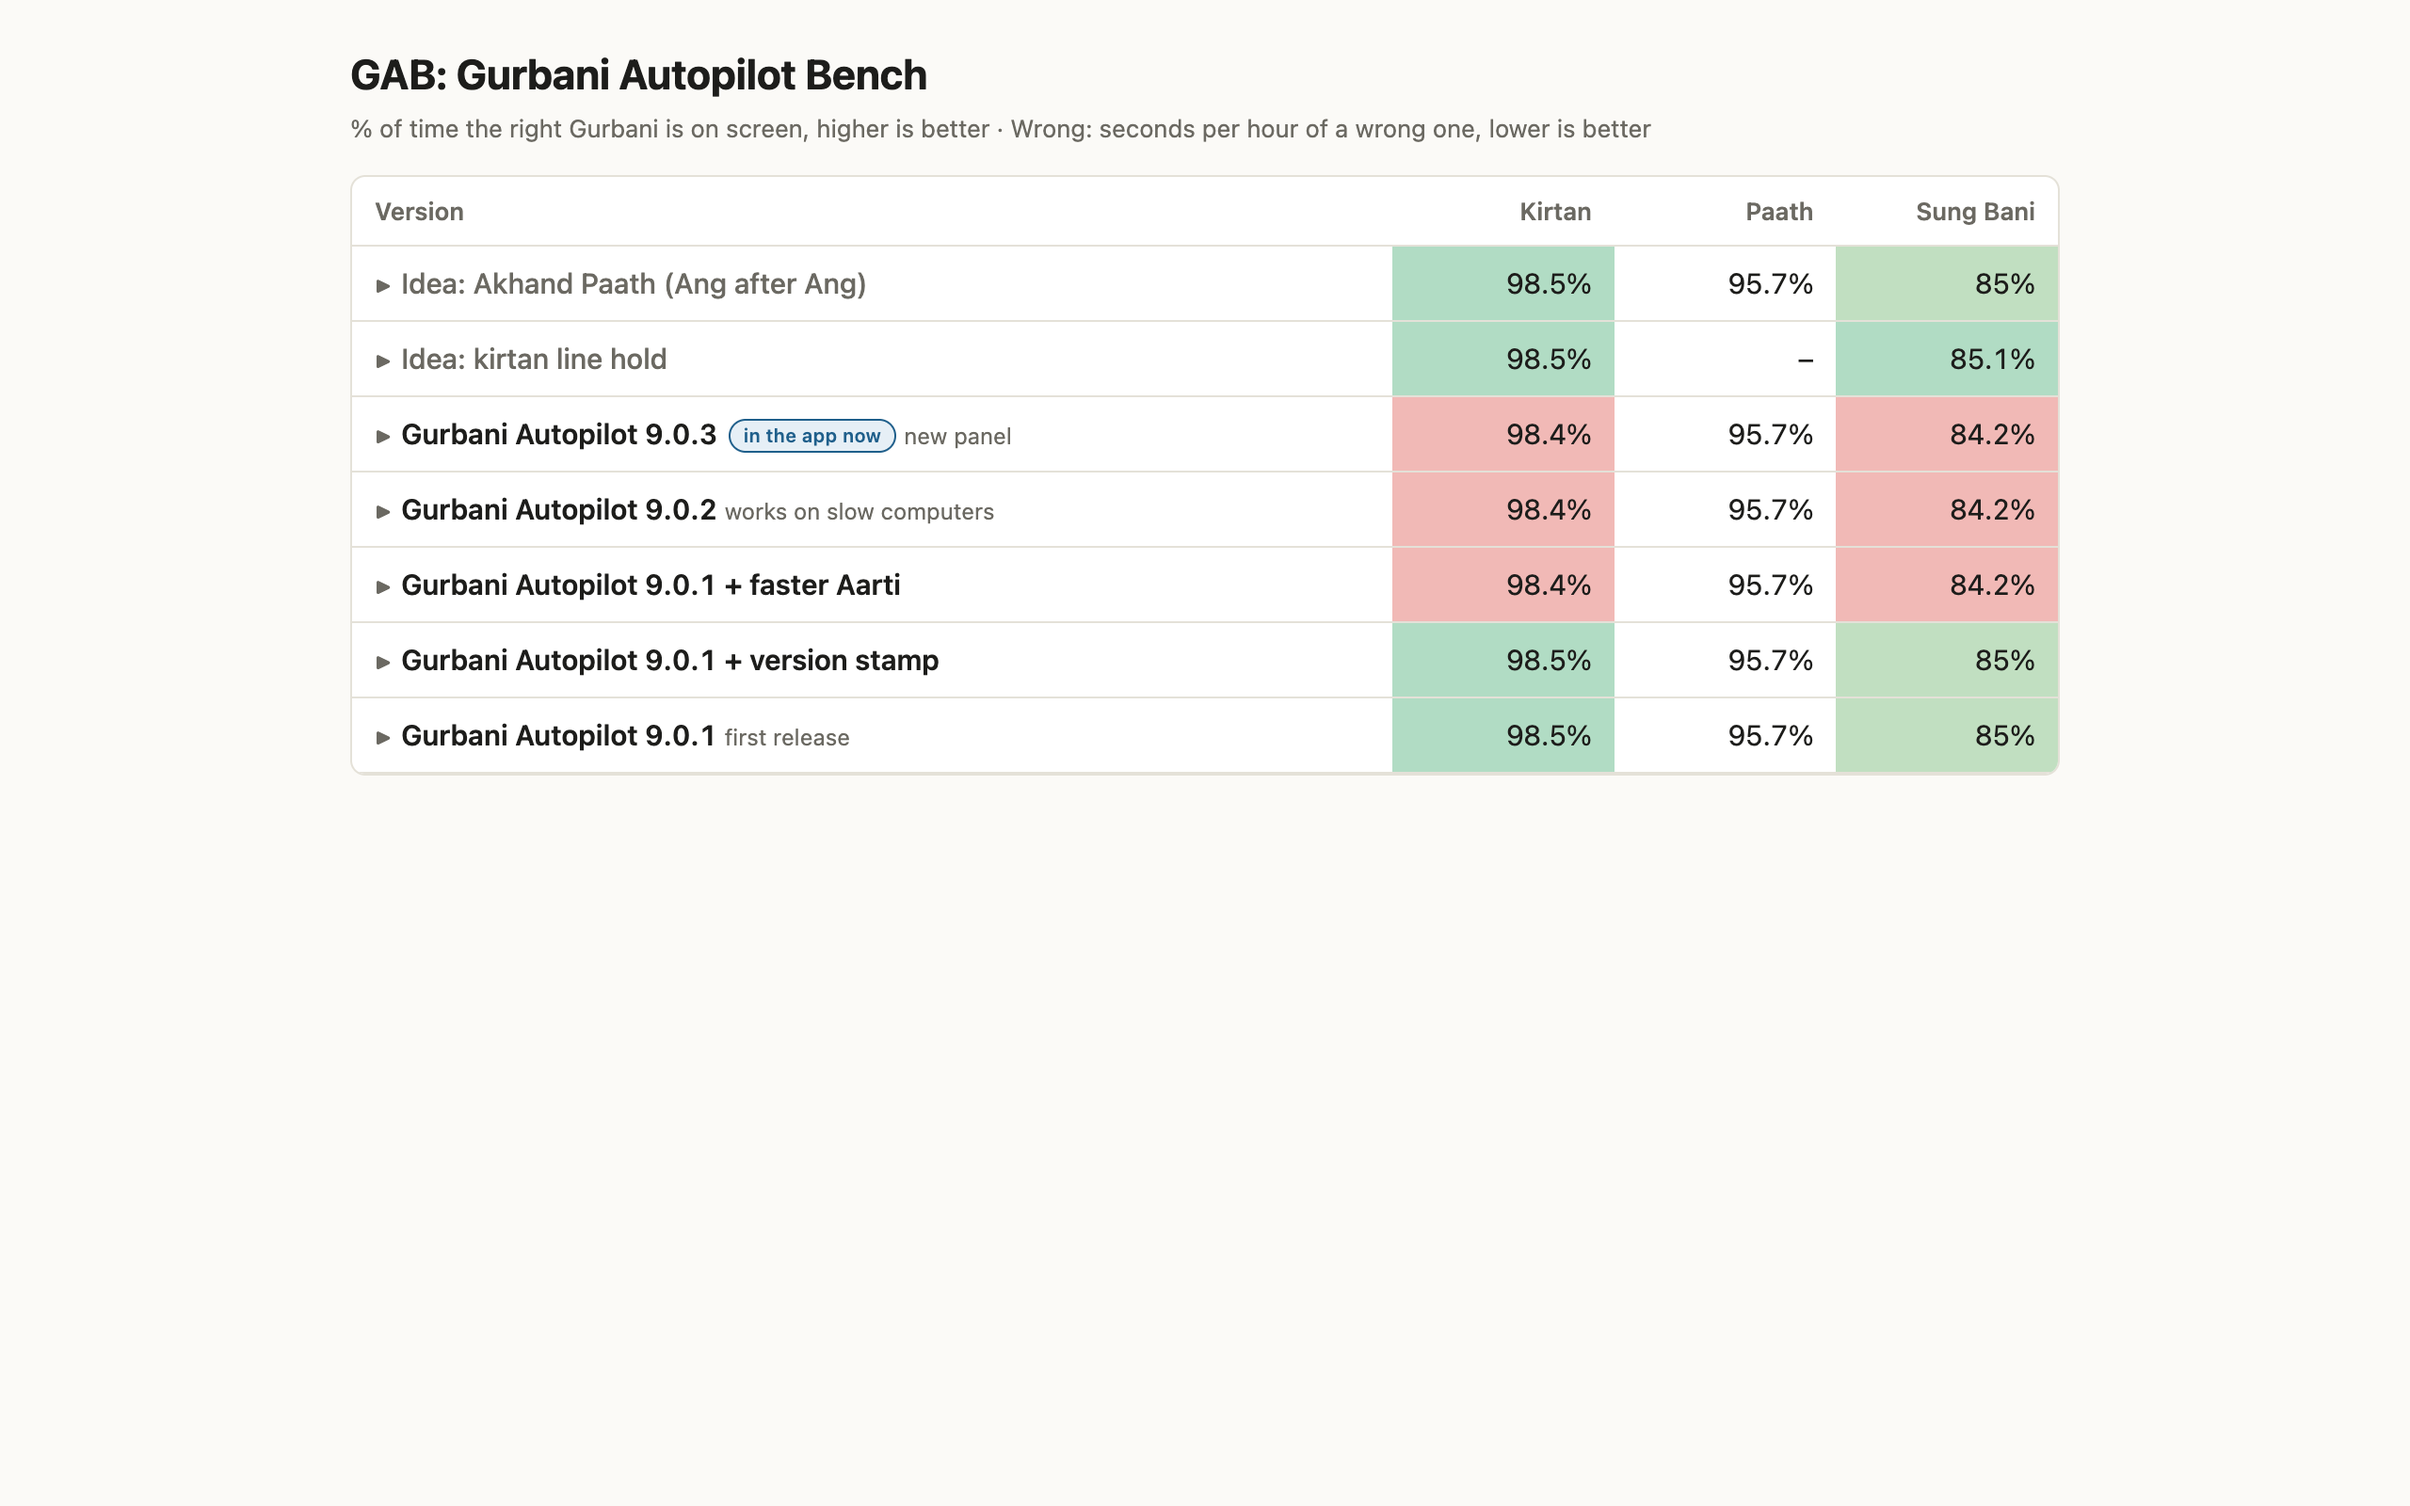
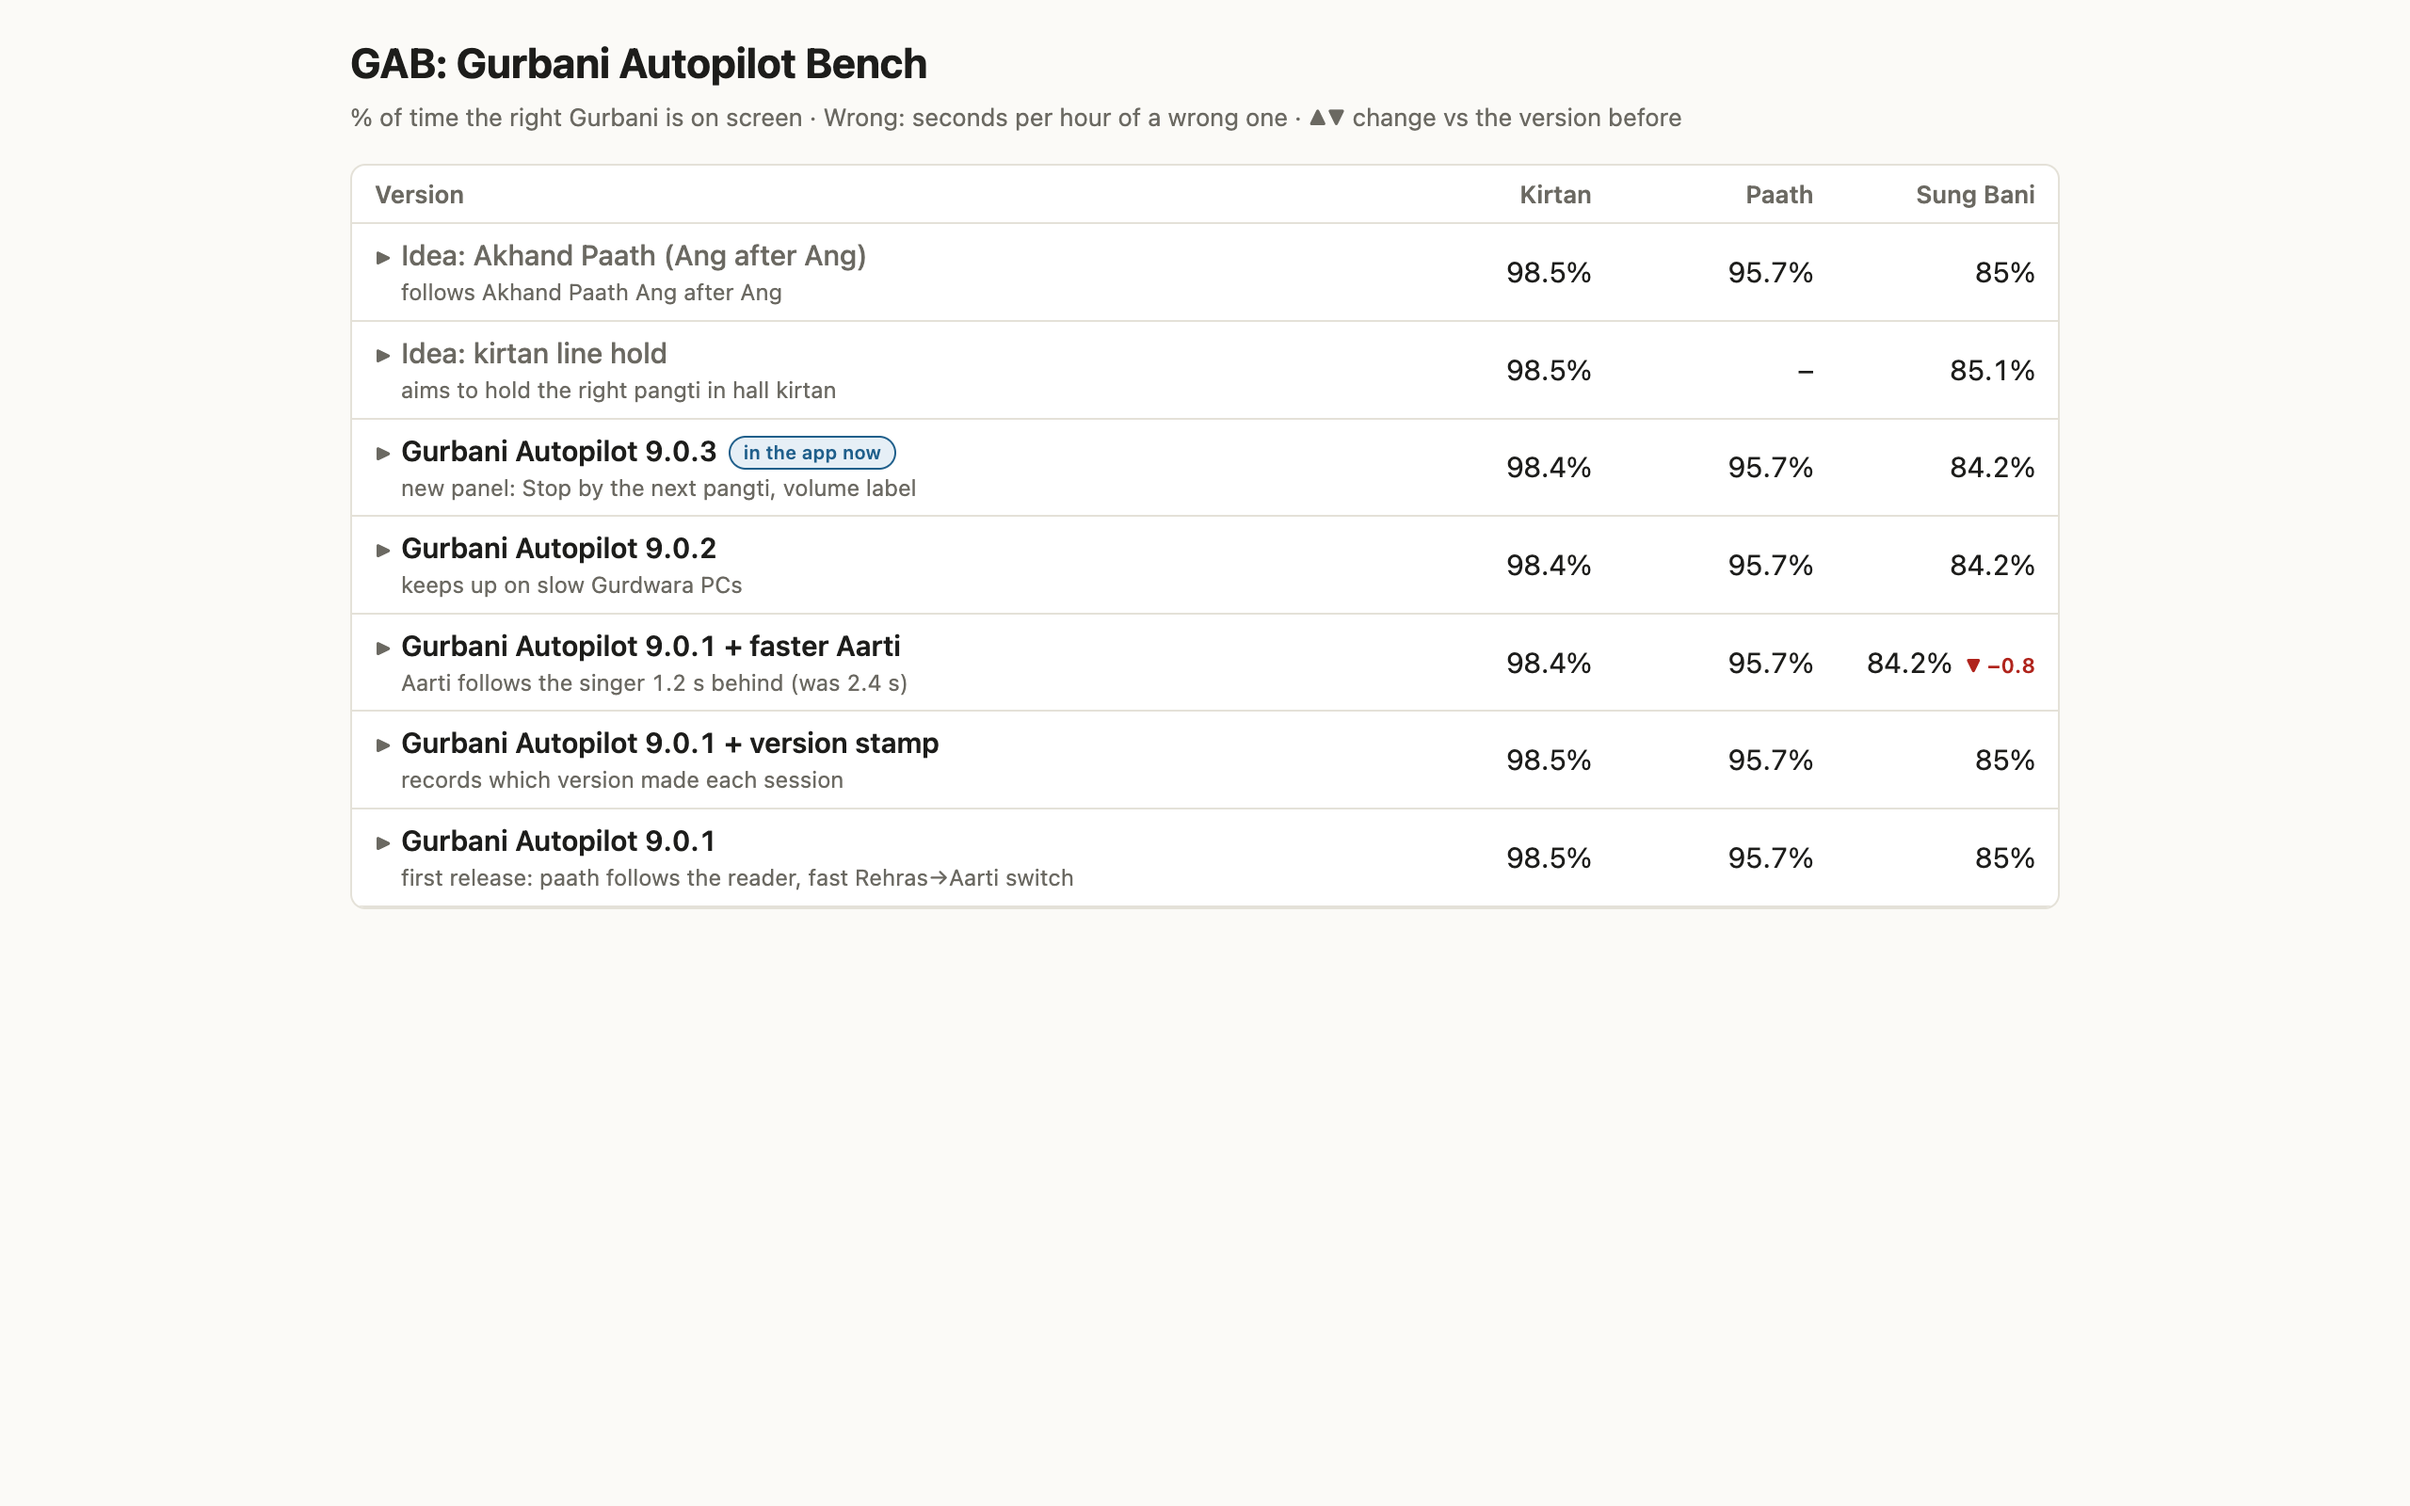
GAB Space: plain cells with change vs the version before (noise floor 0.3 pt / 3 s/h), why line per version

diff --git a/research/level2-dataset/tools/gab-space/index.html b/research/level2-dataset/tools/gab-space/index.html
@@ -8,22 +8,22 @@
 :root {
   --bg: #fbfaf7; --panel: #ffffff; --ink: #1d1d1b; --muted: #6b6962; --line: #e4e1d8; --sub: #f6f4ef;
   --app: #1f5f8b; --app-soft: #e6eff6;
-  --better: #1a9850; --mid: #f2c12e; --worse: #d73027; --tint: 34%;
+  --better-ink: #13703b; --worse-ink: #b0241c;
 }
 @media (prefers-color-scheme: dark) {
   :root:not([data-theme="light"]) { --bg: #151514; --panel: #1e1e1c; --ink: #ecebe6; --muted: #a9a69c; --line: #34332f; --sub: #252522;
-    --app: #9cc8ea; --app-soft: #1f2d38; --better: #3fbf6f; --mid: #e8c547; --worse: #ef5a4c; --tint: 30%; }
+    --app: #9cc8ea; --app-soft: #1f2d38; --better-ink: #7fd89e; --worse-ink: #f48a7e; }
 }
 :root[data-theme="dark"] { --bg: #151514; --panel: #1e1e1c; --ink: #ecebe6; --muted: #a9a69c; --line: #34332f; --sub: #252522;
-  --app: #9cc8ea; --app-soft: #1f2d38; --better: #3fbf6f; --mid: #e8c547; --worse: #ef5a4c; --tint: 30%; }
+  --app: #9cc8ea; --app-soft: #1f2d38; --better-ink: #7fd89e; --worse-ink: #f48a7e; }
 * { box-sizing: border-box; }
 body { margin: 0; background: var(--bg); color: var(--ink); font: 15px/1.4 system-ui, -apple-system, "Segoe UI", sans-serif; }
-.page { max-width: 940px; margin: 0 auto; padding: 24px 16px; }
+.page { max-width: 940px; margin: 0 auto; padding: 18px 16px; }
 h1 { font-size: 22px; margin: 0 0 4px; }
 .sub { color: var(--muted); font-size: 13px; margin: 0 0 16px; }
 .box { background: var(--panel); border: 1px solid var(--line); border-radius: 8px; overflow: hidden; }
 table { border-collapse: collapse; width: 100%; font-variant-numeric: tabular-nums; }
-th, td { padding: 9px 12px; border-bottom: 1px solid var(--line); text-align: right; }
+th, td { padding: 6px 12px; border-bottom: 1px solid var(--line); text-align: right; }
 th:first-child, td:first-child { text-align: left; }
 th { font-size: 13px; font-weight: 600; color: var(--muted); white-space: nowrap; }
 tbody tr:last-child td { border-bottom: 0; }
@@ -33,7 +33,9 @@ tr.ver:focus-visible { outline: 2px solid var(--app); outline-offset: -2px; }
 td.nm { font-weight: 600; }
 td.nm .car { display: inline-block; width: 14px; color: var(--muted); font-size: 11px; transition: transform .15s; }
 tr.open td.nm .car { transform: rotate(90deg); }
-td.nm .what { font-weight: 400; color: var(--muted); font-size: 12px; margin-left: 4px; }
+td.nm .what { display: block; font-weight: 400; color: var(--muted); font-size: 12px; margin: 1px 0 0 14px; }
+.ch { font-size: 11px; font-weight: 600; margin-left: 3px; }
+.ch.up { color: var(--better-ink); } .ch.dn { color: var(--worse-ink); }
 tr.idea td.nm { font-weight: 500; color: var(--muted); }
 tr.old td.nm { font-weight: 400; }
 .pill { display: inline-block; margin-left: 6px; border-radius: 999px; padding: 0 7px; font-size: 10px; font-weight: 600; line-height: 16px; vertical-align: 1px; white-space: nowrap; background: var(--app-soft); color: var(--app); border: 1px solid var(--app); }
@@ -50,7 +52,6 @@ tr.det > td { padding: 0 12px 12px 26px; background: var(--sub); text-align: lef
   .page { padding: 16px 12px; }
   th, td { padding: 8px 6px; }
   td.v { font-size: 14px; }
-  td.nm .what { display: block; margin-left: 14px; }
   td.nm .sysn { display: none; }
   th { white-space: normal; }
   tr.det > td { padding: 0 6px 10px 6px; }
@@ -60,7 +61,7 @@ tr.det > td { padding: 0 12px 12px 26px; background: var(--sub); text-align: lef
 <body>
 <div class="page">
   <h1>GAB: Gurbani Autopilot Bench</h1>
-  <p class="sub">% of time the right Gurbani is on screen, higher is better · Wrong: seconds per hour of a wrong one, lower is better</p>
+  <p class="sub">% of time the right Gurbani is on screen · Wrong: seconds per hour of a wrong one · ▲▼ change vs the version before</p>
   <div class="box"><table id="board"></table></div>
 </div>
 <script>
@@ -83,14 +84,24 @@ const esc = (s) => String(s ?? '').replace(/[&<>"]/g, (c) => ({ '&': '&amp;', '<
 const kindOf = (r) => r.kind || (r.status === 'merged' ? 'release' : 'experiment');
 const rowOf = (rows, key) => (rows || []).find((x) => x.key === key && x.clips) || null;
 const pct = (res, key) => { const r = rowOf(res.rows, key); return r && r.right_shabad_pct != null ? Number(r.right_shabad_pct) : null; };
-const tint = (t) => `background: color-mix(in srgb, ${t >= 0.5 ? `color-mix(in srgb, var(--better) ${Math.round((t - 0.5) * 200)}%, var(--mid))` : `color-mix(in srgb, var(--mid) ${Math.round(t * 200)}%, var(--worse))`} var(--tint), var(--panel))`;
-let RESULTS = [];
+let RESULTS = []; let WHY = {};
+// change vs the version before it (an idea: vs its base); shown only above the noise floor
+const FLOOR = { pct: 0.3, wrong: 3 };
+function chg(v, b, kind) {
+  if (v == null || b == null) return '';
+  const d = Math.round((v - b) * 10) / 10;
+  if (Math.abs(d) <= FLOOR[kind]) return '';
+  const better = kind === 'pct' ? d > 0 : d < 0;
+  return ` <span class="ch ${better ? 'up' : 'dn'}" title="${better ? 'better' : 'worse'} than the version before (${b})">${d > 0 ? '▲ +' : '▼ −'}${Math.abs(d)}</span>`;
+}
+let PREV = new Map();
 
 function nameCell(res, now) {
   const [ver, ...rest] = String(res.label || res.name).split(' · ');
+  const why = WHY[String(res.commit).slice(0, 8)] || rest.join(' · ');
   const idea = kindOf(res) === 'experiment';
   const tip = `${res.label || res.name}\ncommit ${String(res.commit).slice(0, 8)} · Voice-Follow ${res.vf_feature_version || 'not stamped'}`;
-  return `<td class="nm" title="${esc(tip)}"><span class="car">▶</span>${idea ? `Idea: ${esc(ver)}` : `<span class="sysn">${esc(SYSTEM.latin)} </span>${esc(ver)}`}${res === now ? '<span class="pill">in the app now</span>' : ''}${rest.length ? `<span class="what">${esc(rest.join(' · '))}</span>` : ''}</td>`;
+  return `<td class="nm" title="${esc(tip)}"><span class="car">▶</span>${idea ? `Idea: ${esc(ver)}` : `<span class="sysn">${esc(SYSTEM.latin)} </span>${esc(ver)}`}${res === now ? '<span class="pill">in the app now</span>' : ''}${why ? `<span class="what">${esc(why)}</span>` : ''}</td>`;
 }
 const has = (r) => !!(r && r.clips && r.right_shabad_pct != null);
 // mic types inside one scorecard row (only when there is more than one real type)
@@ -118,20 +129,19 @@ function tree(res) {
   });
 }
 const walk = (nodes, f, d = 0) => nodes.forEach((n) => { f(n, d); walk(n.kids, f, d + 1); });
-let SCALE = {};
-function nodeCells(n) {
+function nodeCells(n, pn) {
   if (!has(n.row)) return '<td class="none" colspan="2">no recordings yet</td>';
-  const sc = SCALE[n.id] || {}; const r = Number(n.row.right_shabad_pct); const w = Number(n.row.wrong_s_per_h);
-  const t1 = sc.rhi > sc.rlo ? ` style="${tint((r - sc.rlo) / (sc.rhi - sc.rlo))}"` : '';
-  const t2 = sc.whi > sc.wlo ? ` style="${tint((sc.whi - w) / (sc.whi - sc.wlo))}"` : '';
-  return `<td${t1}>${r}%</td><td${t2}>${w}</td>`;
+  const r = Number(n.row.right_shabad_pct); const w = Number(n.row.wrong_s_per_h);
+  const p = pn && has(pn.row) ? pn.row : null;
+  return `<td>${r}%${chg(r, p ? Number(p.right_shabad_pct) : null, 'pct')}</td><td>${w}${chg(w, p ? Number(p.wrong_s_per_h) : null, 'wrong')}</td>`;
 }
 function detail(res) {
-  const out = [];
+  const out = []; const pv = PREV.get(res); const pnodes = {};
+  if (pv) walk(tree(pv), (n) => { pnodes[n.id] = n; });
   walk(tree(res), (n, d) => {
     const open = n.kids.length && has(n.row) || n.kids.length;
     const kid = d ? ` data-p="${esc(n.id.split('|').slice(0, -1).join('|') || n.id)}" hidden` : '';
-    out.push(`<tr class="node"${kid} data-id="${esc(n.id)}"><td style="padding-left:${6 + d * 16}px">${open ? `<button type="button" class="tw" aria-expanded="false">▸</button>` : '<span class="tw"></span>'}${esc(n.name)}</td>${nodeCells(n)}</tr>`);
+    out.push(`<tr class="node"${kid} data-id="${esc(n.id)}"><td style="padding-left:${6 + d * 16}px">${open ? `<button type="button" class="tw" aria-expanded="false">▸</button>` : '<span class="tw"></span>'}${esc(n.name)}</td>${nodeCells(n, pnodes[n.id])}</tr>`);
   });
   return `<table class="sd"><thead><tr><th></th><th>Right</th><th>Wrong (s/h)</th></tr></thead><tbody>${out.join('')}</tbody></table>`;
 }
@@ -140,15 +150,17 @@ function render() {
   const rank = { experiment: 0, release: 1, 'older version': 2 };
   const list = [...RESULTS].sort((a, b) => (rank[kindOf(a)] ?? 1) - (rank[kindOf(b)] ?? 1) || (b.order ?? -99) - (a.order ?? -99) || String(b.date).localeCompare(String(a.date)));
   const now = list.find((x) => kindOf(x) === 'release');
-  SCALE = {};
-  for (const res of list) walk(tree(res), (n) => { if (!has(n.row)) return; const r = Number(n.row.right_shabad_pct); const w = Number(n.row.wrong_s_per_h); const sc = SCALE[n.id] || (SCALE[n.id] = { rlo: r, rhi: r, wlo: w, whi: w }); sc.rlo = Math.min(sc.rlo, r); sc.rhi = Math.max(sc.rhi, r); sc.wlo = Math.min(sc.wlo, w); sc.whi = Math.max(sc.whi, w); });
-  const scale = HEAD.map((c) => { const vs = list.map((x) => pct(x, c.key)).filter((v) => v != null); return { lo: Math.min(...vs), hi: Math.max(...vs) }; });
-  const cell = (res, c, i) => {
+  // the version before: previous non-idea in date order; an idea: the version it was built from
+  const asc = list.filter((x) => kindOf(x) !== 'experiment').reverse();
+  PREV = new Map();
+  asc.forEach((x, i) => { if (i) PREV.set(x, asc[i - 1]); });
+  list.filter((x) => kindOf(x) === 'experiment').forEach((x) => { const b = x.base && RESULTS.find((y) => y !== x && String(y.commit).startsWith(String(x.base).slice(0, 8))); if (b) PREV.set(x, b); });
+  const cell = (res, c) => {
     const v = pct(res, c.key); if (v == null) return '<td class="v">–</td>';
-    const { lo, hi } = scale[i];
-    return `<td class="v"${hi > lo ? ` style="${tint((v - lo) / (hi - lo))}"` : ''}>${v}%</td>`;
+    const pv = PREV.get(res);
+    return `<td class="v">${v}%${chg(v, pv ? pct(pv, c.key) : null, 'pct')}</td>`;
   };
-  const body = list.map((res, i) => `<tr class="ver ${{ experiment: 'idea', 'older version': 'old' }[kindOf(res)] || ''}" data-i="${i}" tabindex="0" aria-expanded="false">${nameCell(res, now)}${HEAD.map((c, j) => cell(res, c, j)).join('')}</tr><tr class="det" hidden><td colspan="${HEAD.length + 1}">${detail(res)}</td></tr>`).join('');
+  const body = list.map((res, i) => `<tr class="ver ${{ experiment: 'idea', 'older version': 'old' }[kindOf(res)] || ''}" data-i="${i}" tabindex="0" aria-expanded="false">${nameCell(res, now)}${HEAD.map((c) => cell(res, c)).join('')}</tr><tr class="det" hidden><td colspan="${HEAD.length + 1}">${detail(res)}</td></tr>`).join('');
   document.getElementById('board').innerHTML = `<thead><tr><th>Version</th>${HEAD.map((c) => `<th>${c.t}</th>`).join('')}</tr></thead><tbody>${body}</tbody>`;
   const q = new URLSearchParams(location.search).get('open');
   if (q) document.querySelectorAll('tr.ver').forEach((tr) => { if (list[tr.dataset.i] && String(list[tr.dataset.i].commit).startsWith(q)) toggle(tr); });
@@ -174,7 +186,7 @@ document.getElementById('board').addEventListener('click', (e) => {
 });
 document.getElementById('board').addEventListener('keydown', (e) => { const tr = e.target.closest('tr.ver'); if (tr && (e.key === 'Enter' || e.key === ' ')) { e.preventDefault(); toggle(tr); } });
 (async () => {
-  try { const N = await (await fetch('gab-names.json', { cache: 'no-store' })).json(); if (N.system) SYSTEM = N.system; } catch (e) { /* fallback name */ }
+  try { const N = await (await fetch('gab-names.json', { cache: 'no-store' })).json(); if (N.system) SYSTEM = N.system; WHY = Object.fromEntries(Object.entries(N.builds || {}).map(([c, b]) => [c, b.why || ''])); } catch (e) { /* fallback name */ }
   try {
     const idx = await (await fetch('results/index.json', { cache: 'no-store' })).json();
     RESULTS = await Promise.all(idx.results.map(async (x) => ({ ...x, ...(await (await fetch(`results/${x.file}`, { cache: 'no-store' })).json()) })));
